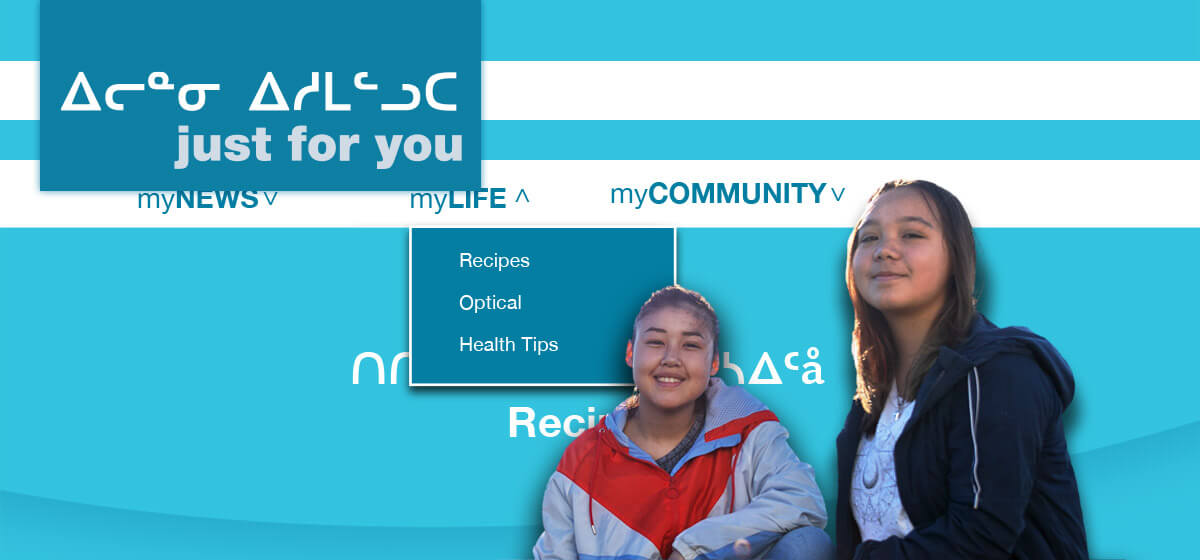
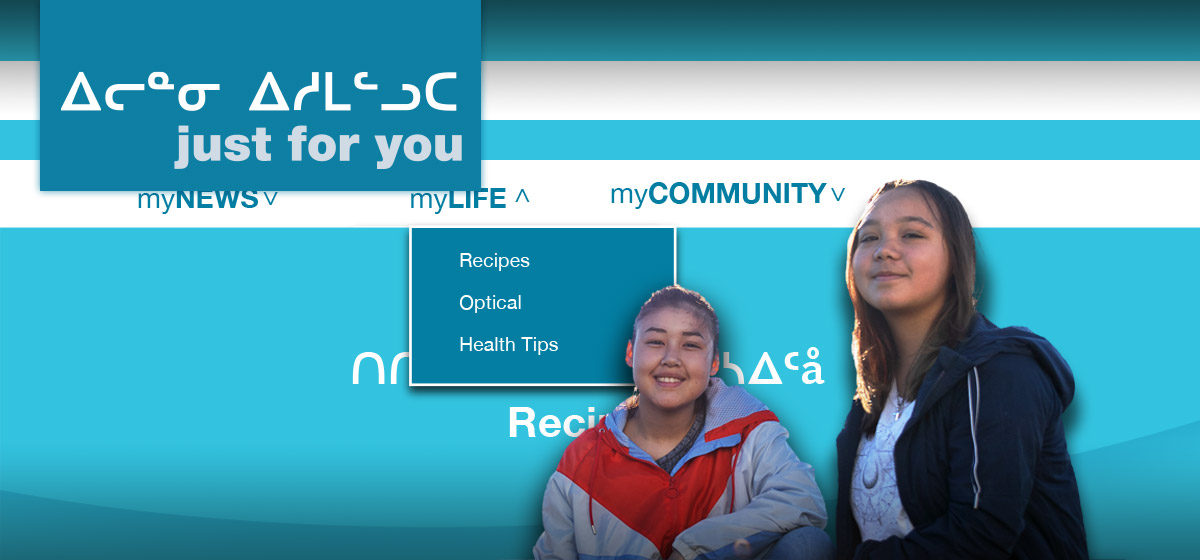
new header image with shadow on bottom. fix buttons to work on PC. start on website section and flyer section.

diff --git a/index.html b/index.html
@@ -305,7 +305,7 @@
                   <table class="column column-one-half" width="100%" style="border-spacing: 0; vertical-align: top; width: 100%; max-width: 280px; display: inline-block;" role="presentation">
                     <tr>
                       <td class="padding" style="padding: 0;">
-                        <a href=""><img src="http://placehold.it/560x490" alt="Recipe name" width="280"></a>
+                        <a href="#"><img src="http://placehold.it/560x490" alt="Recipe name" width="280"></a>
                       </td>
                     </tr>
                   </table>
@@ -329,12 +329,12 @@
 
                     <!-- BUTTON MODULE -->
                     <tr>
-                      <td align="left" style="padding-left: 20px;"> <!-- align & padding -->
-                        <table style="border-spacing: 0;" role="presentation"> <!-- standard & alignment -->
+                      <td align="left" style="padding: 20px 0 0 20px;"> <!-- align & padding -->
+                        <table border="0" cellspacing="0" cellpadding="0" style="border-spacing: 0;" role="presentation"> <!-- standard & alignment -->
                         
                           <tr>
-                            <td align="left" bgcolor="#0B7E9A"> <!-- align, border-radius, bgcolor -->
-                              <a class="recipe-btn"  href="https://example.com" target="_blank" style="font-size: 20px; font-weight: normal; text-decoration: none; color: #0B7E9A; background-color: #ffffff; padding: 12px 24px; border: 1px solid #0B7E9A; display: inline-block;">get the RECIPE</a>
+                            <td> <!-- align, border-radius, bgcolor -->
+                              <a class="recipe-btn" href="https://example.com" target="_blank" style="font-size: 20px; font-weight: normal; font-family: Helvetica, Arial, sans-serif; text-decoration: none; color: #0B7E9A; background-color: #ffffff; padding: 12px 24px; border: 1px solid #0B7E9A; display: inline-block;">get the RECIPE</a>
                             </td>
                           </tr>
 
@@ -405,12 +405,12 @@
 
                     <!-- BUTTON MODULE -->
                     <tr>
-                      <td align="left" style="padding-left: 20px;"> <!-- align & padding -->
-                        <table style="border-spacing: 0;" role="presentation"> <!-- standard & alignment -->
+                      <td align="left" style="padding: 20px 0 0 20px;"> <!-- align & padding -->
+                        <table border="0" cellspacing="0" cellpadding="0" style="border-spacing: 0;" role="presentation"> <!-- standard & alignment -->
                         
                           <tr>
-                            <td align="left" bgcolor="#33C3DF"> <!-- align, border-radius, bgcolor -->
-                              <a class="lifestyle-btn"  href="https://example.com" target="_blank" style="font-size: 20px; font-weight: normal; text-decoration: none; color: #33C3DF; background-color: #ffffff; padding: 12px 24px; border: 1px solid #33C3DF; display: inline-block;">view HEALTH TIP</a>
+                            <td> <!-- align, border-radius, bgcolor -->
+                              <a class="recipe-btn" href="https://example.com" target="_blank" style="font-size: 20px; font-weight: normal; font-family: Helvetica, Arial, sans-serif; text-decoration: none; color: #33C3DF; background-color: #ffffff; padding: 12px 24px; border: 1px solid #33C3DF; display: inline-block;">view HEALTH TIP</a>
                             </td>
                           </tr>
 
@@ -481,12 +481,12 @@
 
                     <!-- BUTTON MODULE -->
                     <tr>
-                      <td align="left" style="padding-left: 20px;"> <!-- align & padding -->
-                        <table style="border-spacing: 0;" role="presentation"> <!-- standard & alignment -->
+                      <td align="left" style="padding: 20px 0 0 20px;"> <!-- align & padding -->
+                        <table border="0" cellspacing="0" cellpadding="0" style="border-spacing: 0;" role="presentation"> <!-- standard & alignment -->
                         
                           <tr>
-                            <td align="left" bgcolor="#91CA45"> <!-- align, border-radius, bgcolor -->
-                              <a class="optical-btn"  href="https://example.com" target="_blank" style="font-size: 20px; font-weight: normal; text-decoration: none; color: #91CA45; background-color: #ffffff; padding: 12px 24px; border: 1px solid #91CA45; display: inline-block;">view OPTICAL</a>
+                            <td> <!-- align, border-radius, bgcolor -->
+                              <a class="recipe-btn" href="https://example.com" target="_blank" style="font-size: 20px; font-weight: normal; font-family: Helvetica, Arial, sans-serif; text-decoration: none; color: #91CA45; background-color: #ffffff; padding: 12px 24px; border: 1px solid #91CA45; display: inline-block;">view OPTICAL</a>
                             </td>
                           </tr>
 
@@ -508,14 +508,21 @@
 
           </td>
         </tr>
-        <!-- END ROPTICAL SECTION -->
+        <!-- END OPTICAL SECTION -->
 
         <!-- START WEBSITE BANNER SECTION -->
         <tr>
-          <td style="padding: 20px 0;"> <!-- Padding Vertically -->
-            <table width="100%" style="border-spacing: 0;" role="presentation"> <!-- Standard table -->
+          <td style="padding: 20px; display: block;"> <!-- Padding Vertically -->
+
+            <!--[if mso]>
+              <table width="100%" style="border-spacing: 0; width: 100%; max-width: 560px; text-align: center;" role="presentation">
               <tr>
-                <td class="column-wrapper" style="padding: 0; font-size: 0; text-align: center;"> <!-- Column Wrapper media query padding -->
+              <td class="column-wrapper" style="padding: 0; font-size: 0; text-align: left;">
+            <![endif]-->
+
+            <table width="100%" style="border-spacing: 0; width: 100%; max-width: 560px; text-align: center;" role="presentation"> <!-- Standard table -->
+              <tr>
+                <td class="column-wrapper" style="padding: 0; font-size: 0; text-align: left;"> <!-- Column Wrapper media query padding -->
 
                   <table class="column column-one-half" style="border-spacing: 0; vertical-align: top; width: 100%; max-width: 334px; display: inline-block;" role="presentation"> <!-- Column (300px width) -->
                     <tr>
@@ -525,28 +532,25 @@
                     </tr>
                   </table>
 
-                </td>
+                  <!--[if mso]>
+                   </td><td width="226" valign="top" style="padding: 0;" dir="ltr">
+                  <![endif]-->
 
-                <td class="column-wrapper" style="padding: 0; font-size: 0; text-align: center;">
-                
-                  <table class="column column-one-half" style="text-align: center; background-color: #ffffff; padding: 0; display: inline-block;">
+                  <table class="column column-one-half" width="100%" style="border-spacing: 0; vertical-align: top; width: 100%; max-width: 226px; display: inline-block;" role="presentation">
                     <tr>
-                      <td class="siteLogo" style="text-align: center; background-color: #ffffff; padding: 0 0 5px 0; display: inline-block; width: 175px;">
-                        <a href="https://justforyouiqaluit.ca" target="_blank"><img src="img/justforyou-siteBrand_320x80.jpg" alt="site branding" width="175"></a>
+                      <td class="siteLogo" style="text-align: center; background-color: #ffffff; padding: 0 20px 0 20px; display: inline-block; width: 176px;">
+                        <a href="https://justforyouiqaluit.ca" target="_blank"><img src="img/justforyou-siteBrand_320x80.jpg" alt="site branding" width="176"></a>
                       </td>
                     </tr>
 
-                    <tr>
-                      <td>
-
                     <!-- BUTTON MODULE -->
                     <tr>
-                      <td align="center" style="padding: 0;"> <!-- align & padding -->
-                        <table style="border-spacing: 0;" role="presentation"> <!-- standard & alignment -->
+                      <td align="center" style="padding: 10px 0 0 0;"> <!-- align & padding -->
+                        <table border="0" cellspacing="0" cellpadding="0" style="border-spacing: 0;" role="presentation"> <!-- standard & alignment -->
                         
                           <tr>
-                            <td align="center" bgcolor="#0B7E9A"> <!-- align, border-radius, bgcolor -->
-                              <a class="recipe-btn"  href="https://example.com" target="_blank" style="font-size: 20px; font-weight: normal; text-decoration: none; color: #0B7E9A; background-color: #ffffff; padding: 10px 25px; border: 1px solid #0B7E9A; display: inline-block;">visit WEBSITE</a>
+                            <td> <!-- align, border-radius, bgcolor -->
+                              <a class="recipe-btn" href="https://example.com" target="_blank" style="font-size: 20px; font-weight: normal; font-family: Helvetica, Arial, sans-serif; text-decoration: none; color: #0B7E9A; background-color: #ffffff; padding: 12px 24px; border: 1px solid #0B7E9A; display: inline-block;">visit WEBSITE</a>
                             </td>
                           </tr>
 
@@ -554,17 +558,54 @@
                       </td>
                     </tr>
 
-                      </td>
-                    </tr>
                   </table>
+
                 </td>
               </tr>
             </table>
+
+          <!--[if mso]>
+            </table>
+            </tr>
+            </td>
+          <![endif]-->
+
           </td>
         </tr>
         <!-- END WEBSITE BANNER SECTION -->
 
         <!-- START FLYER SECTION -->
+        <tr>
+          <td bgcolor="#33C3DF" style="padding: 0; display: block; line-height: 0;"> <!-- Padding Vertically -->
+            <table width="100%" style="border-spacing: 0; background-color: #33c3df;" role="presentation"> <!-- Standard table -->
+
+              <tr>
+                <td class="column-wrapper" >
+                  <table class="column column-one-half" style="padding: 0; vertical-align: middle; width: 100%; max-width: 280px; display: inline-block; text-align: left;" role="presentation">
+                    <tr>
+                      <td>
+                        <h3 style="font-size: 28px; font-weight: bold; line-height: 32px; font-family: Arial, Helvetica, sans-serif; color: #ffffff; margin: 0;">Inuulisautinut Niuvirvik</h3>
+                      </td>
+                    </tr>
+                    <tr>
+                      <td>
+                        <p style="font-size: 16px; font-weight: normal; font-family: Arial, Helvetica, sans-serif; color: #ffffff; margin: 0;">“a place to get things for healthy body and mind”</p>
+                      </td>
+                    </tr>
+                  </table>
+                  <table align="right" class="column column-one-half" style="padding: 0; vertical-align: middle; width: 100%; max-width: 280px; display: inline-block; text-align: left;" role="presentation">
+                    <tr>
+                      <td align="right" style="text-align: right;">
+                        <a href="https://justforyouiqaluit.ca/flyers/" target="_blank"><img src="img/flyer_img.png" alt="Inuulisautinut Niuvirvik flyer" width="231px"></a>
+                      </td>
+                    </tr>
+                  </table>
+                </td>
+              </tr>
+
+            </table>
+          </td>
+        </tr>
         <!-- END FLYER SECTION -->
 
         <!-- START FOOTER -->
